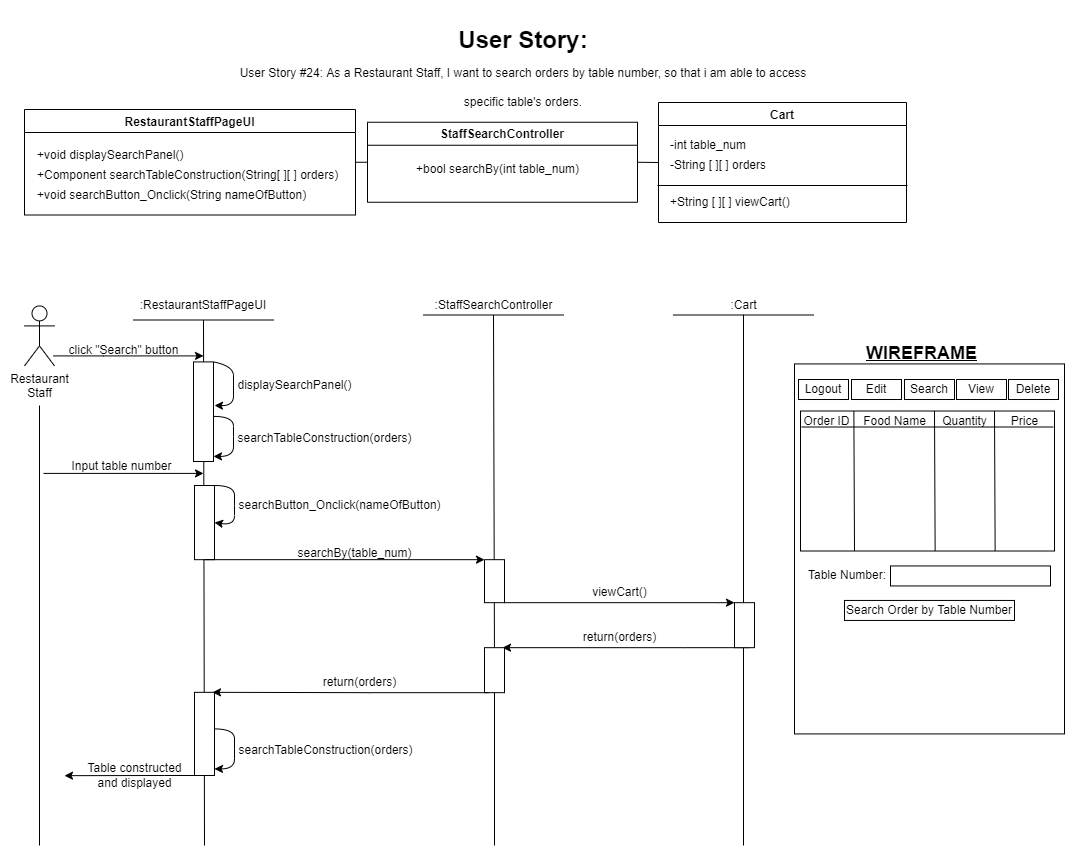
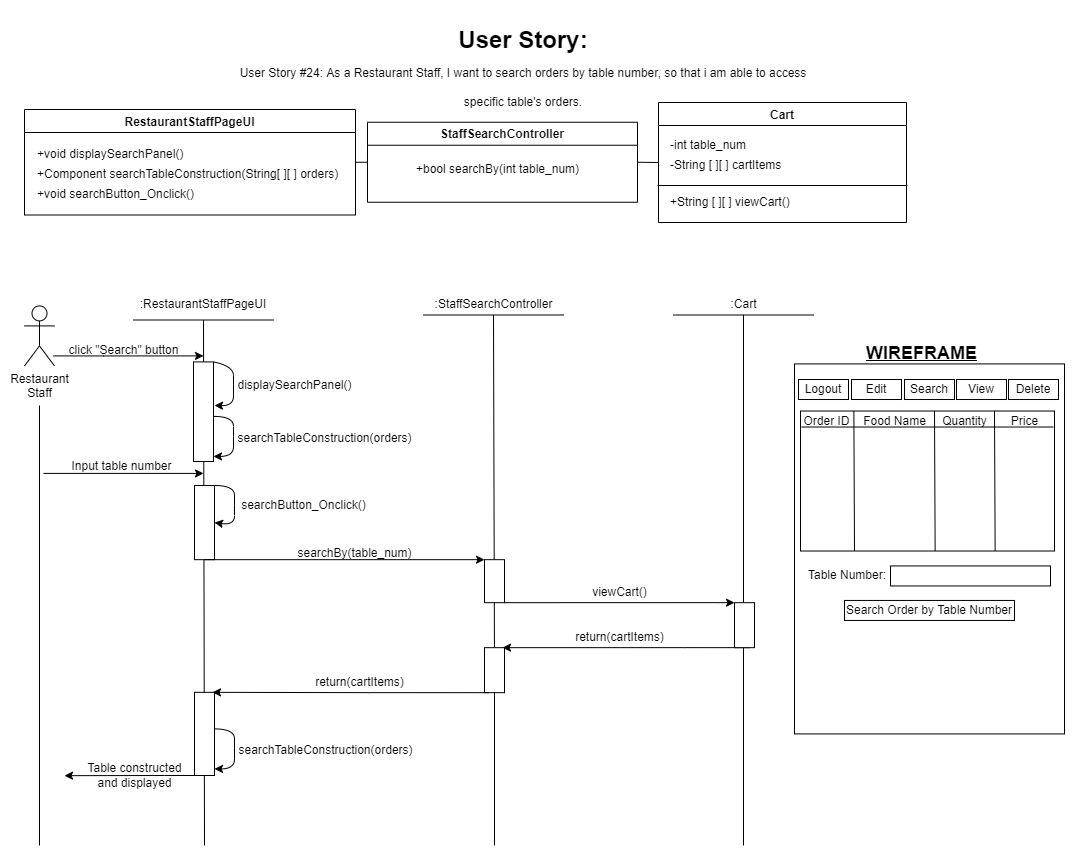
Updated Restaurant Staff Diagrams and Code
Restaurant Staff changes

User Story #25

Diagrams:
StaffViewController
- Changed bool displayOrders() to String [][] displayOrders()

User Story #24

Diagrams:
RestaurantStaffPageUI
- Changed searchButton_Onclick(String nameOfButton) to searchButton_Onclick()

Cart
- Changed orders to cartItems

Code:
RestaurantStaffPageUI
- Changed searchButton_Onclick() data to orders

diff --git a/src/Main/boundary/StaffUI/RestaurantStaffPageUI.java b/src/Main/boundary/StaffUI/RestaurantStaffPageUI.java
@@ -216,6 +216,7 @@ public class RestaurantStaffPageUI extends JFrame {
 
     // 1b) Method to construction of the JTable, Mouse Click Listener to display all transactions (JTable type returned as a JScrollPane type)
     public Component editTableConstruction(){
+        // Obtain data from staff Edit Controller
         StaffEditController staffEditController = new StaffEditController();
         String [][] data = staffEditController.displayOrders();
         // Display data in a table format
@@ -421,9 +422,9 @@ public class RestaurantStaffPageUI extends JFrame {
             // NO need to check whether the user keys in an integer (already done in displaySearchPanel(), text field initialization)
             int table_num = Integer.parseInt(fieldSearchTableNumber.getText());
             StaffSearchController staffSearchController = new StaffSearchController();
-            String [][] data = staffSearchController.searchBy(table_num);
+            String [][] orders = staffSearchController.searchBy(table_num);
             // Refresh Table
-            searchTableConstruction(data);
+            searchTableConstruction(orders);
         }
     }
 
